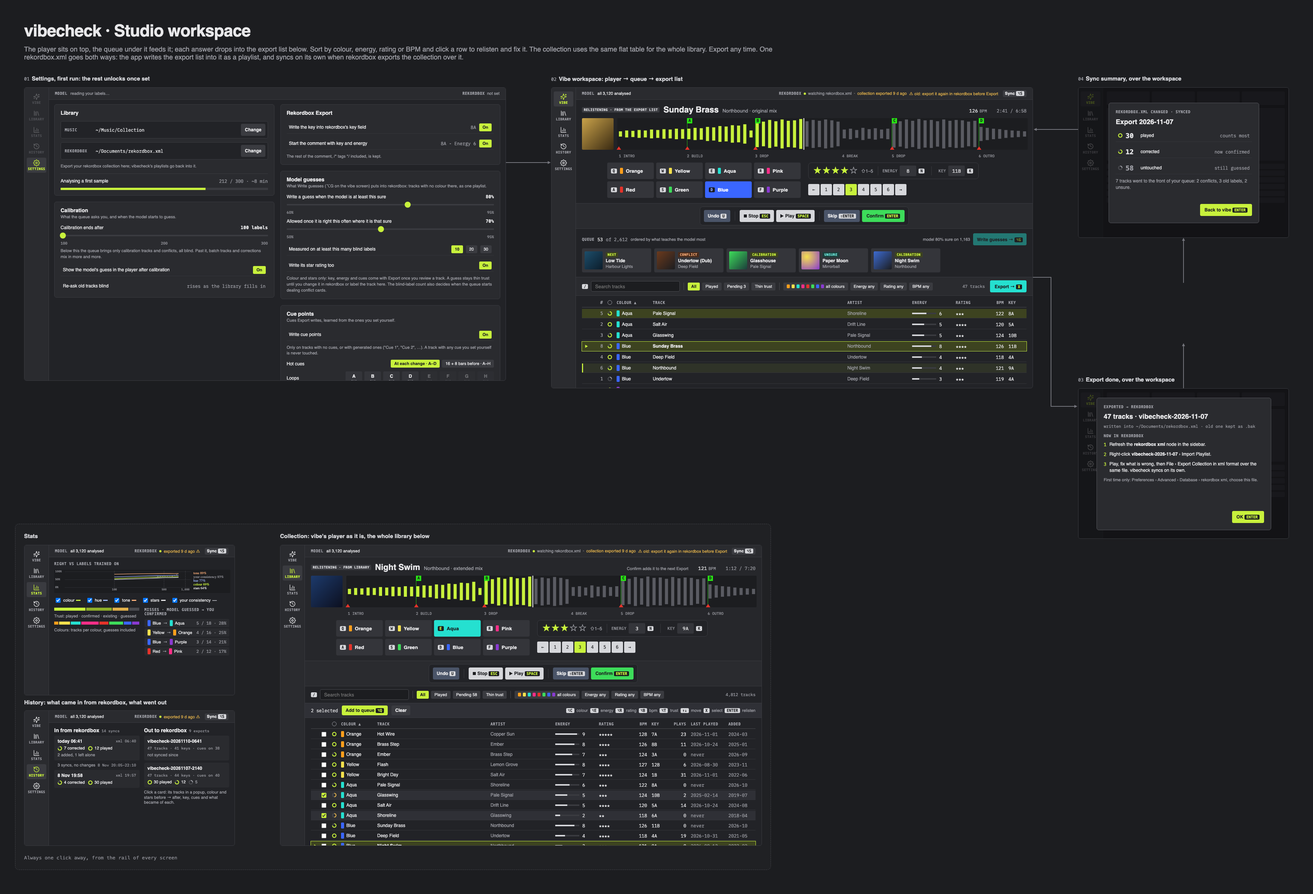
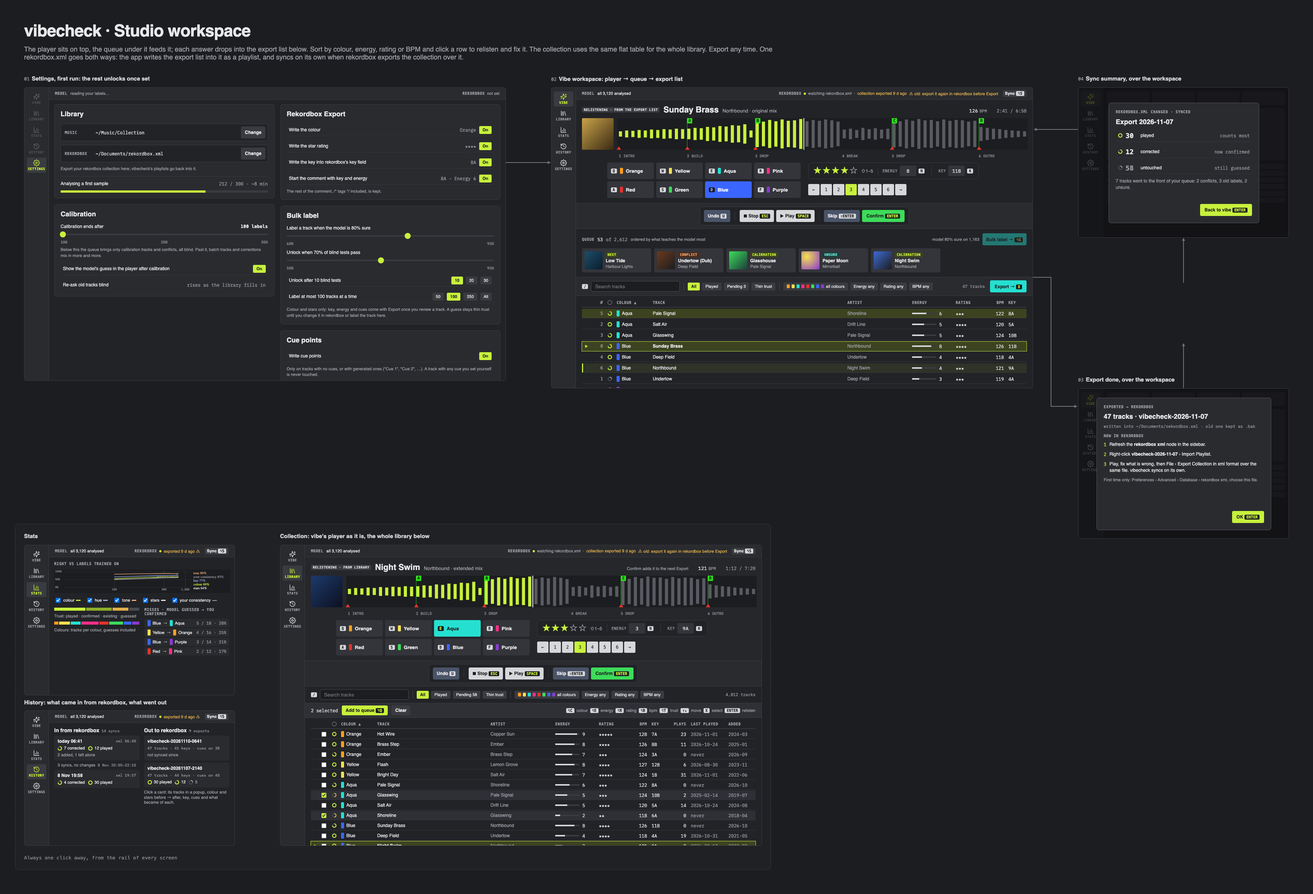
settings: Bulk label (was Write guesses), limit 100/run, Unlock wording; write_colour/write_stars switches; card titles 18px, no subtitles
Bulk label: [guesses] limit (50/100/250/All, surest first), stars toggle
dropped; every rekordbox write (Export, Bulk label, CLI) takes
WriteOpts::from_cfg with the four [rekordbox] write_* switches. Settings
rows read "Unlock when 70% of blind tests pass" / "Unlock after 10 blind
tests", numbers inline. Card subtitles removed, titles 18px heavy.

diff --git a/docs/ui/workspace.html b/docs/ui/workspace.html
@@ -122,7 +122,7 @@ a{color:#c8f13c}a:hover{color:#e0ff7a}
 <div class="body" style="gap: 10px">
 <div style="display: grid; grid-template-columns: minmax(0, 1fr) minmax(0, 1fr); gap: 16px; align-items: start">
 <div style="display: flex; flex-direction: column; gap: 16px; min-width: 0">
-<div style="background: #2a2b2f; border: 1px solid #3a3b40; border-radius: 6px; padding: 14px 16px; display: flex; flex-direction: column; gap: 10px"><div style="display: flex; flex-direction: column; gap: 2px; margin-bottom: 4px"><span style="font-size: 14px; font-weight: 700">Library</span></div>
+<div style="background: #2a2b2f; border: 1px solid #3a3b40; border-radius: 6px; padding: 14px 16px; display: flex; flex-direction: column; gap: 10px"><div style="display: flex; flex-direction: column; gap: 2px; margin-bottom: 6px"><span style="font-size: 18px; font-weight: 800">Library</span></div>
 <div class="field" style="background: #222327"><span class="lbl" style="width: 72px">Music</span><span class="mono" style="flex: 1">~/Music/Collection</span><button class="btn">Change</button></div>
 <div class="field" style="background: #222327"><span class="lbl" style="width: 72px">rekordbox</span><span class="mono" style="flex: 1">~/Documents/rekordbox.xml</span><button class="btn">Change</button></div>
 <span style="font-size: 11px; line-height: 15px; color: #a0a1a8">Export your rekordbox collection here; vibecheck's playlists go back into it.</span>
@@ -130,25 +130,27 @@ a{color:#c8f13c}a:hover{color:#e0ff7a}
 <div style="display: flex; justify-content: space-between; font-size: 12px"><span>Analysing a first sample</span><span class="mono" style="color: #a0a1a8">212 / 300 · ~8 min</span></div>
 <div class="track"><div style="width: 70%; height: 100%; background: #c8f13c"></div></div>
 </div>
-<div style="background: #2a2b2f; border: 1px solid #3a3b40; border-radius: 6px; padding: 14px 16px; display: flex; flex-direction: column; gap: 10px"><div style="display: flex; flex-direction: column; gap: 2px; margin-bottom: 4px"><span style="font-size: 14px; font-weight: 700">Calibration</span><span style="font-size: 11px; line-height: 15px; color: #a0a1a8">What the queue asks you, and when the model starts to guess.</span></div><div style="display: flex; flex-direction: column; gap: 6px"><div style="display: flex; align-items: center; gap: 10px; font-size: 12px"><span>Calibration ends after</span><span class="mono" style="margin-left: auto; font-weight: 600">100 labels</span></div><div style="position: relative; height: 16px"><div style="position: absolute; left: 0; right: 0; top: 6px; height: 4px; background: #3a3b40"></div><div style="position: absolute; left: -2px; top: 0; width: 16px; height: 16px; border-radius: 50%; background: #c8f13c"></div></div><div class="mono" style="display: flex; justify-content: space-between; font-size: 10px; color: #a0a1a8"><span>100</span><span>200</span><span>300</span></div><span style="font-size: 11px; line-height: 16px; color: #a0a1a8">Below this the queue brings only calibration tracks and conflicts, all blind. Past it, batch tracks and corrections mix in more and more.</span></div>
+<div style="background: #2a2b2f; border: 1px solid #3a3b40; border-radius: 6px; padding: 14px 16px; display: flex; flex-direction: column; gap: 10px"><div style="display: flex; flex-direction: column; gap: 2px; margin-bottom: 6px"><span style="font-size: 18px; font-weight: 800">Calibration</span></div><div style="display: flex; flex-direction: column; gap: 6px"><div style="display: flex; align-items: center; gap: 10px; font-size: 12px"><span>Calibration ends after</span><span class="mono" style="margin-left: auto; font-weight: 600">100 labels</span></div><div style="position: relative; height: 16px"><div style="position: absolute; left: 0; right: 0; top: 6px; height: 4px; background: #3a3b40"></div><div style="position: absolute; left: -2px; top: 0; width: 16px; height: 16px; border-radius: 50%; background: #c8f13c"></div></div><div class="mono" style="display: flex; justify-content: space-between; font-size: 10px; color: #a0a1a8"><span>100</span><span>200</span><span>300</span></div><span style="font-size: 11px; line-height: 16px; color: #a0a1a8">Below this the queue brings only calibration tracks and conflicts, all blind. Past it, batch tracks and corrections mix in more and more.</span></div>
 <div class="tr" style="height: 32px"><span style="flex: 1">Show the model's guess in the player after calibration</span><span class="chip chon">On</span></div>
 <div class="tr" style="height: 32px; border-bottom: none"><span style="flex: 1">Re-ask old tracks blind</span><span class="mono" style="color: #a0a1a8">rises as the library fills in</span></div>
 </div>
 </div>
 <div style="display: flex; flex-direction: column; gap: 16px; min-width: 0">
-<div style="background: #2a2b2f; border: 1px solid #3a3b40; border-radius: 6px; padding: 14px 16px; display: flex; flex-direction: column; gap: 10px"><div style="display: flex; flex-direction: column; gap: 2px; margin-bottom: 4px"><span style="font-size: 14px; font-weight: 700">Rekordbox Export</span></div>
+<div style="background: #2a2b2f; border: 1px solid #3a3b40; border-radius: 6px; padding: 14px 16px; display: flex; flex-direction: column; gap: 10px"><div style="display: flex; flex-direction: column; gap: 2px; margin-bottom: 6px"><span style="font-size: 18px; font-weight: 800">Rekordbox Export</span></div>
+<div class="tr" style="height: 32px"><span style="flex: 1">Write the colour</span><span class="mono" style="color: #a0a1a8">Orange</span><span class="chip chon">On</span></div>
+<div class="tr" style="height: 32px"><span style="flex: 1">Write the star rating</span><span class="mono" style="color: #a0a1a8">★★★★</span><span class="chip chon">On</span></div>
 <div class="tr" style="height: 32px"><span style="flex: 1">Write the key into rekordbox's key field</span><span class="mono" style="color: #a0a1a8">8A</span><span class="chip chon">On</span></div>
 <div class="tr" style="height: 32px"><span style="flex: 1">Start the comment with key and energy</span><span class="mono" style="color: #a0a1a8">8A - Energy 6</span><span class="chip chon">On</span></div>
 <span style="font-size: 11px; line-height: 15px; color: #a0a1a8">The rest of the comment, /* tags */ included, is kept.</span>
 </div>
-<div style="background: #2a2b2f; border: 1px solid #3a3b40; border-radius: 6px; padding: 14px 16px; display: flex; flex-direction: column; gap: 10px"><div style="display: flex; flex-direction: column; gap: 2px; margin-bottom: 4px"><span style="font-size: 14px; font-weight: 700">Model guesses</span><span style="font-size: 11px; line-height: 15px; color: #a0a1a8">What Write guesses (⌥G on the vibe screen) puts into rekordbox: tracks with no colour there, as one playlist.</span></div>
-<div style="display: flex; flex-direction: column; gap: 6px"><div style="display: flex; align-items: center; gap: 10px; font-size: 12px"><span>Write a guess when the model is at least this sure</span><span class="mono" style="margin-left: auto; font-weight: 600">80%</span></div><div style="position: relative; height: 16px"><div style="position: absolute; left: 0; right: 0; top: 6px; height: 4px; background: #3a3b40"></div><div style="position: absolute; left: 57%; top: 0; width: 16px; height: 16px; border-radius: 50%; background: #c8f13c"></div></div><div class="mono" style="display: flex; justify-content: space-between; font-size: 10px; color: #a0a1a8"><span>60%</span><span>95%</span></div></div>
-<div style="display: flex; flex-direction: column; gap: 6px"><div style="display: flex; align-items: center; gap: 10px; font-size: 12px"><span>Allowed once it is right this often where it is that sure</span><span class="mono" style="margin-left: auto; font-weight: 600">70%</span></div><div style="position: relative; height: 16px"><div style="position: absolute; left: 0; right: 0; top: 6px; height: 4px; background: #3a3b40"></div><div style="position: absolute; left: 44%; top: 0; width: 16px; height: 16px; border-radius: 50%; background: #c8f13c"></div></div><div class="mono" style="display: flex; justify-content: space-between; font-size: 10px; color: #a0a1a8"><span>50%</span><span>95%</span></div></div>
-<div class="tr" style="height: 32px"><span style="flex: 1">Measured on at least this many blind labels</span><span class="chip chon">10</span><span class="chip">20</span><span class="chip">30</span></div>
-<div class="tr" style="height: 32px"><span style="flex: 1">Write its star rating too</span><span class="chip chon">On</span></div>
-<span style="font-size: 11px; line-height: 16px; color: #a0a1a8">Colour and stars only: key, energy and cues come with Export once you review a track. A guess stays thin trust until you change it in rekordbox or label the track here. The blind-label count also decides when the queue starts dealing conflict cards.</span></div>
+<div style="background: #2a2b2f; border: 1px solid #3a3b40; border-radius: 6px; padding: 14px 16px; display: flex; flex-direction: column; gap: 10px"><div style="display: flex; flex-direction: column; gap: 2px; margin-bottom: 6px"><span style="font-size: 18px; font-weight: 800">Bulk label</span></div>
+<div style="display: flex; flex-direction: column; gap: 6px"><div style="display: flex; align-items: center; gap: 10px; font-size: 12px"><span>Label a track when the model is 80% sure</span></div><div style="position: relative; height: 16px"><div style="position: absolute; left: 0; right: 0; top: 6px; height: 4px; background: #3a3b40"></div><div style="position: absolute; left: 57%; top: 0; width: 16px; height: 16px; border-radius: 50%; background: #c8f13c"></div></div><div class="mono" style="display: flex; justify-content: space-between; font-size: 10px; color: #a0a1a8"><span>60%</span><span>95%</span></div></div>
+<div style="display: flex; flex-direction: column; gap: 6px"><div style="display: flex; align-items: center; gap: 10px; font-size: 12px"><span>Unlock when 70% of blind tests pass</span></div><div style="position: relative; height: 16px"><div style="position: absolute; left: 0; right: 0; top: 6px; height: 4px; background: #3a3b40"></div><div style="position: absolute; left: 44%; top: 0; width: 16px; height: 16px; border-radius: 50%; background: #c8f13c"></div></div><div class="mono" style="display: flex; justify-content: space-between; font-size: 10px; color: #a0a1a8"><span>50%</span><span>95%</span></div></div>
+<div class="tr" style="height: 32px"><span style="flex: 1">Unlock after 10 blind tests</span><span class="chip chon">10</span><span class="chip">20</span><span class="chip">30</span></div>
+<div class="tr" style="height: 32px"><span style="flex: 1">Label at most 100 tracks at a time</span><span class="chip">50</span><span class="chip chon">100</span><span class="chip">250</span><span class="chip">All</span></div>
+<span style="font-size: 11px; line-height: 16px; color: #a0a1a8">Colour and stars only: key, energy and cues come with Export once you review a track. A guess stays thin trust until you change it in rekordbox or label the track here.</span></div>
 
-<div style="background: #2a2b2f; border: 1px solid #3a3b40; border-radius: 6px; padding: 14px 16px; display: flex; flex-direction: column; gap: 10px"><div style="display: flex; flex-direction: column; gap: 2px; margin-bottom: 4px"><span style="font-size: 14px; font-weight: 700">Cue points</span><span style="font-size: 11px; line-height: 15px; color: #a0a1a8">Cues Export writes, learned from the ones you set yourself.</span></div>
+<div style="background: #2a2b2f; border: 1px solid #3a3b40; border-radius: 6px; padding: 14px 16px; display: flex; flex-direction: column; gap: 10px"><div style="display: flex; flex-direction: column; gap: 2px; margin-bottom: 6px"><span style="font-size: 18px; font-weight: 800">Cue points</span></div>
 <div class="tr" style="height: 32px"><span style="flex: 1">Write cue points</span><span class="chip chon">On</span></div>
 <span style="font-size: 11px; line-height: 15px; color: #a0a1a8">Only on tracks with no cues, or with generated ones ("Cue 1", "Cue 2", …). A track with any cue you set yourself is never touched.</span>
 <div style="display: flex; align-items: center; gap: 6px; font-size: 12px"><span style="flex: 1">Hot cues</span><span class="chip chon">At each change · A–D</span><span class="chip">16 + 8 bars before · A–H</span></div>
@@ -194,7 +196,7 @@ a{color:#c8f13c}a:hover{color:#e0ff7a}
 <div style="display: flex; justify-content: center; padding: 8px 16px; border-bottom: 1px solid #3a3b40; background: #2a2b2f"><div style="display: inline-flex; align-items: center; gap: 6px; padding: 8px 10px; background: #222327; border: 1px solid #3a3b40; border-radius: 8px"><button class="btn" style="background: #4a5468">Undo <span class="kbd">U</span></button><span style="width: 1px; height: 24px; background: #3a3b40; margin: 0 6px"></span><button class="btn" style="background: #d6d7db; color: #1c1d20"><svg width="10" height="10" viewBox="0 0 10 10" style="vertical-align: -1px"><rect x="1" y="1" width="8" height="8" fill="#1c1d20"/></svg> Stop <span class="kbdd">ESC</span></button><button class="btn" style="background: #d6d7db; color: #1c1d20"><svg width="10" height="10" viewBox="0 0 10 10" style="vertical-align: -1px"><path d="M1 0 10 5 1 10z" fill="#1c1d20"/></svg> Play <span class="kbdd">SPACE</span></button><span style="width: 1px; height: 24px; background: #3a3b40; margin: 0 6px"></span><button class="btn" style="background: #4a5468" title="from the queue this slot reads: Requeue">Skip <span class="kbd">⇧ENTER</span></button><button class="btnp" style="background: #3ddc5a">Confirm <span class="kbdd">ENTER</span></button></div></div>
 
 <div style="padding: 12px 16px; border-bottom: 1px solid #3a3b40; display: flex; flex-direction: column; gap: 8px">
-<div style="display: flex; align-items: center; gap: 8px"><span class="lbl">Queue</span><span class="mono" style="font-size: 12px">53</span><span class="mono" style="font-size: 12px; color: #a0a1a8">of 2,612</span><span style="font-size: 11px; color: #a0a1a8">ordered by what teaches the model most</span><span style="margin-left: auto; font-size: 11px; color: #a0a1a8">model 80% sure on 1,163</span><button class="btn" style="background: #25e0d0; color: #1c1d20; opacity: .45">Write guesses → <span class="kbdd">⌥G</span></button></div>
+<div style="display: flex; align-items: center; gap: 8px"><span class="lbl">Queue</span><span class="mono" style="font-size: 12px">53</span><span class="mono" style="font-size: 12px; color: #a0a1a8">of 2,612</span><span style="font-size: 11px; color: #a0a1a8">ordered by what teaches the model most</span><span style="margin-left: auto; font-size: 11px; color: #a0a1a8">model 80% sure on 1,163</span><button class="btn" style="background: #25e0d0; color: #1c1d20; opacity: .45">Bulk label → <span class="kbdd">⌥G</span></button></div>
 <div style="display: flex; gap: 8px">
 <div class="q qc"><div class="cov" style="background: linear-gradient(135deg, #1d4e6b, #0c1d2b)"></div><div class="qt"><span class="tag t-cal" style="align-self: flex-start">next</span><span class="qn">Low Tide</span><span class="qa">Harbour Lights</span></div></div>
 <div class="q qc"><div class="cov" style="background: linear-gradient(135deg, #6b3a1d, #1c1d20)"></div><div class="qt"><span class="tag t-con" style="align-self: flex-start">conflict</span><span class="qn">Undertow (Dub)</span><span class="qa">Deep Field</span></div></div>

diff --git a/core/src/app.rs b/core/src/app.rs
@@ -1052,7 +1052,7 @@ pub fn export(root: &Path, xml_path: &Path, cfg: &Config) -> Res<Exported> {
             cues: plan.as_ref().and_then(|c| c.marks.get(p)).map(|m| m.0.clone()),
         })
         .collect();
-    let o = WriteOpts { name: &name, tonality, comment, changed_only: false };
+    let o = WriteOpts::from_cfg(&name, cfg, false);
     let st = rekordbox::write(xml_path, xml_path, root, &entries, &o)?;
     if let Some(p) = &plan
         && !p.marks.is_empty()
@@ -1106,7 +1106,8 @@ pub fn export(root: &Path, xml_path: &Path, cfg: &Config) -> Res<Exported> {
 }
 
 /// Write the model's guesses into rekordbox: tracks with no colour there that the model is
-/// at least `[guesses] sure` of, colour and (with `[guesses] stars`) stars, as one playlist.
+/// at least `[guesses] sure` of, colour and stars, as one playlist, written with the same
+/// `[rekordbox]` options as Export.
 /// Nothing else is touched: no key, energy or cues (Export adds those once a track is
 /// reviewed), and no track that has a colour. Refused while calibrating, and until the model
 /// is right at least `[guesses] right` of the time where it is that sure, on at least
@@ -1145,24 +1146,29 @@ pub fn export_guesses(root: &Path, xml_path: &Path, cfg: &Config, threshold: usi
         .collect();
     let (pool, px) = embed::load(root, &blank)?;
     let pr: Vec<&[f32]> = px.iter().map(|v| v.as_slice()).collect();
-    let with_stars = cfg.bool("guesses", "stars", true);
-    let mut entries = vec![];
-    let mut labels: Vec<(String, Label)> = vec![];
+    let limit = cfg.int("guesses", "limit", 100).max(0) as usize;
+    let mut sure: Vec<(f64, String, Label)> = vec![];
     for (p, pred) in pool.iter().zip(m.predict(&pr)) {
         let Some((g, pg)) = best_colour(&pred) else { continue };
         if pg < bar {
             continue;
         }
-        let stars = if with_stars { pred.top.get(STARS).and_then(|s| s.0.parse::<u8>().ok()).filter(|s| *s > 0) } else { None };
-        let label = Label { colour: palette::by_id(g), stars };
-        entries.push(Entry { rel: p.clone(), level: "colour", label: Some(label), key: None, energy: None, cues: None });
-        labels.push((p.clone(), label));
+        let stars = pred.top.get(STARS).and_then(|s| s.0.parse::<u8>().ok()).filter(|s| *s > 0);
+        sure.push((pg, p.clone(), Label { colour: palette::by_id(g), stars }));
     }
+    // the surest first; `limit` (0 = all) per run, so a wrong model shows in a small batch
+    sure.sort_by(|a, b| b.0.total_cmp(&a.0).then_with(|| a.1.cmp(&b.1)));
+    if limit > 0 {
+        sure.truncate(limit);
+    }
+    let labels: Vec<(String, Label)> = sure.into_iter().map(|(_, p, l)| (p, l)).collect();
+    let entries: Vec<Entry> =
+        labels.iter().map(|(p, l)| Entry { rel: p.clone(), level: "colour", label: Some(*l), key: None, energy: None, cues: None }).collect();
     if entries.is_empty() {
         return Err("nothing to write: no track without a colour in rekordbox that the model is sure of".into());
     }
-    let name = format!("vibecheck-guesses-{}", local(now(), "%Y%m%d-%H%M"));
-    let o = WriteOpts { name: &name, tonality: false, comment: false, changed_only: false };
+    let name = format!("vibecheck-bulk-{}", local(now(), "%Y%m%d-%H%M"));
+    let o = WriteOpts::from_cfg(&name, cfg, false);
     let st = rekordbox::write(xml_path, xml_path, root, &entries, &o)?;
     let ids = store::track_ids(&con)?;
     let rid = store::open_round(&con, &name, entries.len(), embed::BACKEND, &embed::fingerprint(), l.x.len())?;
@@ -1765,6 +1771,8 @@ fn audio22<'a>(
 /// The settings the app shows, as the config has them now.
 pub fn settings(cfg: &Config) -> serde_json::Value {
     serde_json::json!({
+        "write_colour": cfg.bool("rekordbox", "write_colour", true),
+        "write_stars": cfg.bool("rekordbox", "write_stars", true),
         "write_tonality": cfg.bool("rekordbox", "write_tonality", true),
         "write_comment": cfg.bool("rekordbox", "write_comment", true),
         "cues_write": cfg.bool("cues", "write", true),
@@ -1774,7 +1782,7 @@ pub fn settings(cfg: &Config) -> serde_json::Value {
         "guesses_sure": cfg.float("guesses", "sure", 0.8),
         "guesses_right": cfg.float("guesses", "right", 0.7),
         "guesses_measured": cfg.int("guesses", "measured", 10),
-        "guesses_stars": cfg.bool("guesses", "stars", true),
+        "guesses_limit": cfg.int("guesses", "limit", 100),
     })
 }
 

diff --git a/core/src/rekordbox.rs b/core/src/rekordbox.rs
@@ -372,10 +372,27 @@ fn marks_equal(a: &[Vec<(String, String)>], b: &[Vec<(String, String)>]) -> bool
 
 pub struct WriteOpts<'a> {
     pub name: &'a str,
+    pub colour: bool,
+    pub stars: bool,
     pub tonality: bool,
     pub comment: bool,
     /// keep the playlist to tracks something actually changed on
     pub changed_only: bool,
+}
+
+impl<'a> WriteOpts<'a> {
+    /// The `[rekordbox] write_*` switches: one place for every write into rekordbox.
+    pub fn from_cfg(name: &'a str, cfg: &crate::config::Config, changed_only: bool) -> Self {
+        let w = |k, d| cfg.bool("rekordbox", k, d);
+        WriteOpts {
+            name,
+            colour: w("write_colour", true),
+            stars: w("write_stars", true),
+            tonality: w("write_tonality", true),
+            comment: w("write_comment", true),
+            changed_only,
+        }
+    }
 }
 
 /// Apply entries and add one playlist holding them. Writes `xml_out` (and a
@@ -459,10 +476,10 @@ pub fn write(xml_in: &Path, xml_out: &Path, collection: &Path, entries: &[Entry]
             *n += 1;
             true
         };
-        if let Some(c) = e.label.and_then(|l| l.colour) {
+        if let (Some(c), true) = (e.label.and_then(|l| l.colour), o.colour) {
             changed |= put(&mut tag, "Colour", c.rgb.to_string(), &mut st.coloured);
         }
-        if let Some(s) = e.label.and_then(|l| l.stars).filter(|s| *s > 0) {
+        if let (Some(s), true) = (e.label.and_then(|l| l.stars).filter(|s| *s > 0), o.stars) {
             changed |= put(&mut tag, "Rating", palette::rating_from_stars(s), &mut st.rated);
         }
         if let (Some(k), true) = (&e.key, o.tonality) {

diff --git a/core/src/commands.rs b/core/src/commands.rs
@@ -358,12 +358,7 @@ pub fn label(root: &Path, cfg: &Config, args: &Args) -> Res<()> {
                 cues: plan.as_ref().and_then(|c| c.marks.get(rel)).map(|m| m.0.clone()),
             })
             .collect();
-        let o = WriteOpts {
-            name: &name,
-            tonality: cfg.bool("rekordbox", "write_tonality", true),
-            comment: cfg.bool("rekordbox", "write_comment", true),
-            changed_only: false,
-        };
+        let o = WriteOpts::from_cfg(&name, cfg, false);
         let st = rekordbox::write(src, &dst, root, &rk, &o)?;
         println!("\nwrote {}", dst.display());
         if let Some(p) = &plan
@@ -410,12 +405,7 @@ pub fn label(root: &Path, cfg: &Config, args: &Args) -> Res<()> {
 // --- analyse and cues: one field, many tracks ----------------------------------------
 
 fn finish_write(src: &Path, root: &Path, entries: &[Entry], name: &str, cfg: &Config, dry: bool) -> Res<rekordbox::WriteStats> {
-    let o = WriteOpts {
-        name,
-        tonality: cfg.bool("rekordbox", "write_tonality", true),
-        comment: cfg.bool("rekordbox", "write_comment", true),
-        changed_only: true,
-    };
+    let o = WriteOpts::from_cfg(name, cfg, true);
     if dry {
         let tmp = std::env::temp_dir().join(format!("vibecheck-dry-{}.xml", std::process::id()));
         let st = rekordbox::write(src, &tmp, root, entries, &o)?;

diff --git a/core/examples/xml_check.rs b/core/examples/xml_check.rs
@@ -35,7 +35,7 @@ fn main() -> vibecheck::Res<()> {
             }),
         })
         .collect();
-    let o = rekordbox::WriteOpts { name: "vibecheck-parity", tonality: true, comment: true, changed_only: false };
+    let o = rekordbox::WriteOpts { name: "vibecheck-parity", colour: true, stars: true, tonality: true, comment: true, changed_only: false };
     let st = rekordbox::write(std::path::Path::new(&a[1]), std::path::Path::new(&a[2]), &root, &entries, &o)?;
     println!("{st:?}");
     Ok(())

diff --git a/docs/ui/decisions.md b/docs/ui/decisions.md
@@ -168,12 +168,12 @@ waveform and charts darker still (`#1c1d20`); dialogs and popups unchanged.
    mood; conflicts are dealt only once the model is right 75% of the time
    where it is sure, and a track asked as a conflict rests 60 days
    (`docs/queue.md`). At the right end of the title line, "model 80% sure on
-   1,163" and a **Write guesses →** button (⌥G), dimmed while locked: the
+   1,163" and a **Bulk label →** button (⌥G), dimmed while locked: the
    number says how much of the pool the model would label with confidence,
    and when it stops moving per session, you write the guesses and go play.
    Its dialog shows the count (tracks with no colour in rekordbox), the
    measured accuracy where the model is that sure, and the reason when
-   locked; the bar and the guard are under Settings › Model guesses. The
+   locked; the bar and the guard are under Settings › Bulk label. The
    player starts a track at its second section, past the intro, unless you
    moved first; 1 goes back to the start. A fast-track toggle (the
    model's surest guesses to confirm quickly, behind an accuracy gate) was
@@ -466,7 +466,7 @@ waveform and charts darker still (`#1c1d20`); dialogs and popups unchanged.
 
 - **Two columns**, so lines don't stretch across a wide window: the
   collection and the model on the left (Library, Calibration), what goes into
-  rekordbox on the right (Rekordbox Export, Model guesses, Cue points). Start
+  rekordbox on the right (Rekordbox Export, Bulk label, Cue points). Start
   spans both.
 - **Each group on its own card**, titled, with one line on what it is for where
   that isn't plain (none on Library or Rekordbox Export), so
@@ -482,18 +482,38 @@ waveform and charts darker still (`#1c1d20`); dialogs and popups unchanged.
 - Show the model's guess in the player after calibration (On).
 - Re-ask old tracks blind (rises as the library fills in).
 - **Rekordbox Export**
+  - Write the colour ("Orange"): `[rekordbox] write_colour`; Write the star
+    rating ("★★★★"): `write_stars`. Both on; added 2026-11-22 when the Bulk
+    label stars toggle went, so every field has its switch in this one card.
   - Write the key into rekordbox's key field ("8A"): `[rekordbox] write_tonality`.
   - Start the comment with key and energy ("8A - Energy 6"); the rest of the
     comment, /* tags */ included, is kept: `[rekordbox] write_comment`.
+  - These apply to every write into rekordbox, Bulk label included.
   - No setting for how old the collection export may be: past 7 days
     (`warn_days`) the status row warns, and it always shows the export's age.
-- **Model guesses** (`[guesses]`): what Write guesses puts into rekordbox.
-  - Write a guess when the model is at least this sure: 60–95%, default 80%
-    (`sure`).
-  - Allowed once it is right this often where it is that sure: 50–95%,
-    default 70% (`right`), measured on at least 10 / 20 / 30 blind labels
-    (`measured`; the same count gates the queue's conflict cards).
-  - Write its star rating too (On, `stars`).
+- **Bulk label** (`[guesses]`): what Bulk label puts into rekordbox. Named
+  for what the user gets (many tracks labelled at once), not the mechanism;
+  the earlier "Model guesses" card / "Write guesses" button read as two
+  things. No subtitle; none of the cards has one since 2026-11-22 (Calibration
+  and Cue points lost theirs the same day): they confused more than they
+  explained, the controls are self-describing.
+  Card titles are 18 px heavy (the dialog/history title size) since the same
+  day: at 14 px bold they read as another row, not a heading.
+  - "Label a track when the model is 80% sure": 60–95% (`sure`).
+  - "Unlock when 70% of blind tests pass": 50–95% (`right`).
+  - "Unlock after 10 blind tests": 10 / 20 / 30 (`measured`). The same count
+    gates the queue's conflict cards, but the card does not say so: noise
+    here, and conflicts are the queue's business.
+  - "Label at most 100 tracks at a time": 50 / 100 / 250 / All (`limit`,
+    0 = all). The surest first; the dialog then reads "100 of 1,163 tracks,
+    … surest first". A small first batch shows a wrong model in rekordbox
+    before it has coloured a thousand tracks; run it again for the next.
+  - The number sits in the sentence and moves with the control, no value on
+    the right: "right this often where it is that sure" did not tell the user
+    what unlocked the button; "Unlock … blind tests" on both gate rows does.
+  - No stars toggle (dropped 2026-11-22, with `[guesses] stars`): Bulk label
+    always writes colour and stars, with the Rekordbox Export options; what
+    goes into rekordbox is decided in one card, not per button.
   - Colour and stars only, tracks with no colour in rekordbox, one playlist;
     key, energy and cues come with Export once a track is reviewed. Not a
     hard accuracy gate: the fast track showed a measured gate starves, so the

diff --git a/docs/queue.md b/docs/queue.md
@@ -161,19 +161,20 @@ Where: `queue()` already predicts the pool; count `pg >= SURE`. One number on
 - Playback starts at the second section; 1 goes back.
 - Coverage: spread n over the 2n least sure.
 
-## Write guesses: the bulk export
+## Bulk label: the bulk export
 
 The end of the loop. You label until "model 80% sure on N" flattens, then
 write the guesses and go play; rekordbox corrections and plays come back
 through sync, the sure set grows, you write again.
 
 - **What**: tracks with no colour in rekordbox that the model is at least
-  `sure` of, colour and (if on) stars, as one playlist
-  `vibecheck-guesses-<date>`. Nothing with a colour is touched: your labels
+  `sure` of, colour and stars, as one playlist
+  `vibecheck-bulk-<date>`, at most `limit` (100) per run, surest first.
+  Nothing with a colour is touched: your labels
   and old ones stay, disagreements remain the queue's job. No key, energy or
   cues: only 476 of 14,194 tracks have that analysis, the rest would take
   hours; Export adds them once a track is reviewed.
-- **Guard**, Settings › Model guesses (`[guesses]`): `sure` 0.8, `right` 0.7
+- **Guard**, Settings › Bulk label (`[guesses]`): `sure` 0.8, `right` 0.7
   on at least `measured` (10) blind held-back labels where the model is that
   sure, and past calibration. Not a hard 90% gate: the fast track showed a
   measured gate starves on real labels. The dialog shows the count, the
@@ -206,7 +207,7 @@ In `core/src/app.rs` (`queue()`, `export_guesses()`), `ext`, and the app:
    unless you already moved (`pos < 2 s`); 1 goes back.
 5. `Score::by_sure` (right, asked per 5% band from 0.5; model cache key m6);
    the queue returns `sure_hist`, `blank_hist`, `right_hist`; the queue line
-   shows "model 80% sure on N" and the Write guesses button (⌥G).
-6. Write guesses: `export_guesses(root, xml, cfg, threshold)`, the dialog in
+   shows "model 80% sure on N" and the Bulk label button (⌥G).
+6. Bulk label (was Write guesses): `export_guesses(root, xml, cfg, threshold)`, the dialog in
    `main.gd` (count, accuracy, lock reason; Cancel / Write, ENTER writes),
    the Settings card, `[guesses]` defaults in `default_config.toml`.
